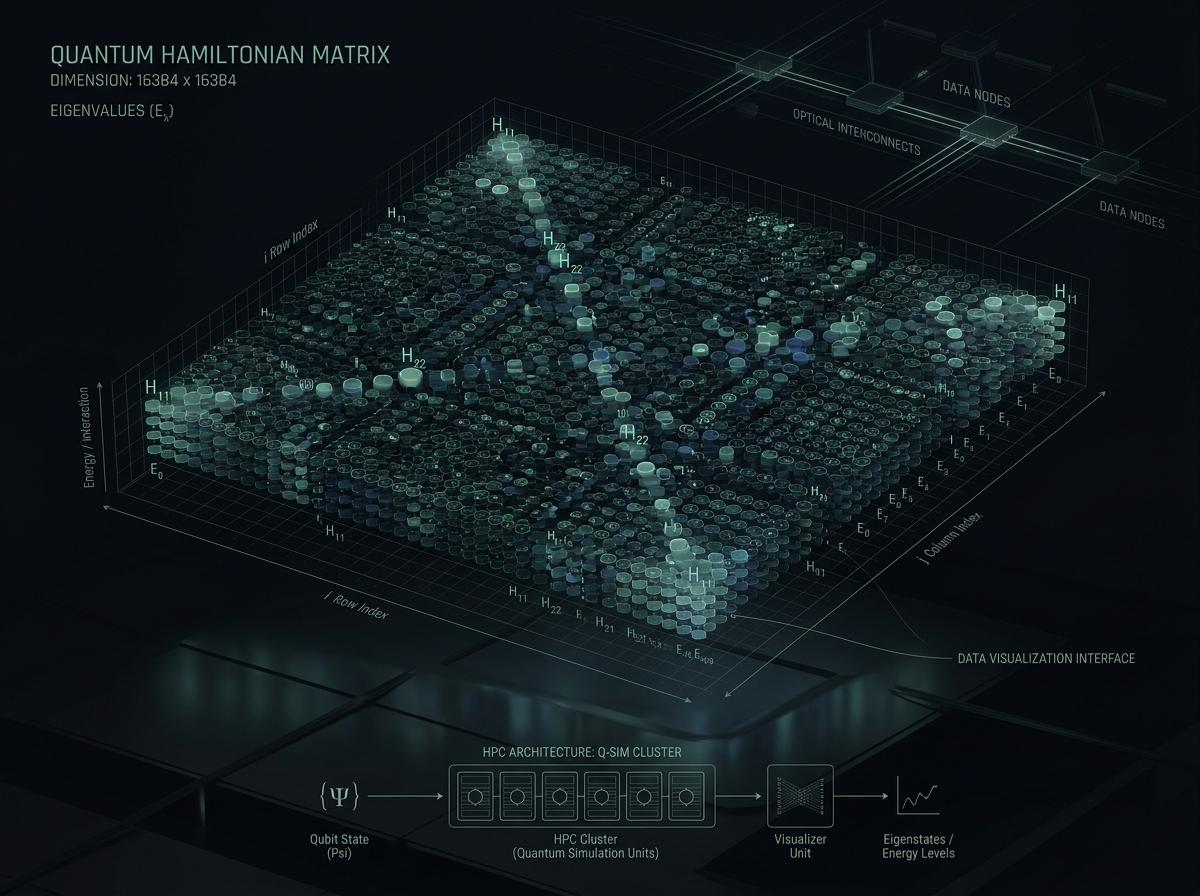
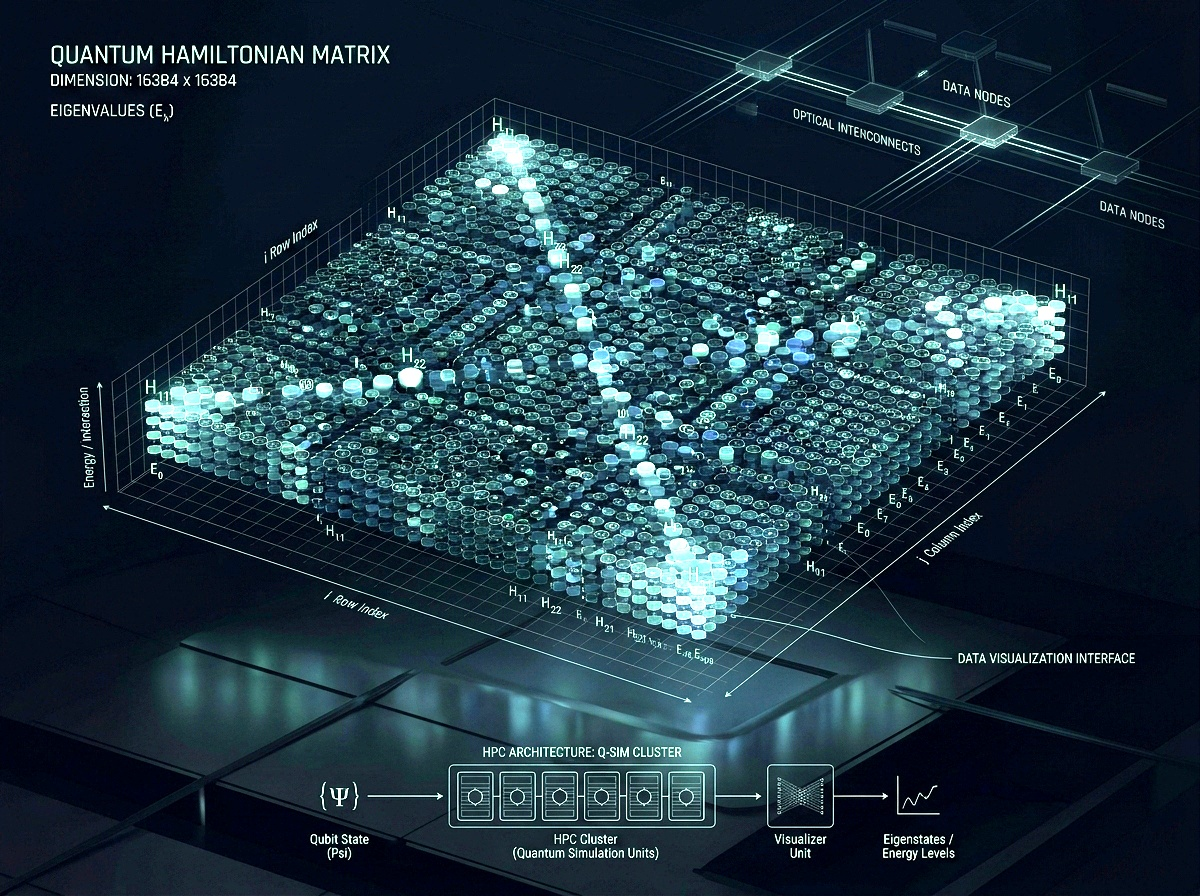
fix(deck): enhance contrast and brightness on matrix and singularity bottleneck images and sync across deck static paths

diff --git a/anfa-deck.html b/anfa-deck.html
@@ -249,7 +249,7 @@
       content: '';
       position: absolute;
       inset: 0;
-      background: linear-gradient(180deg, rgba(3, 8, 4, 0.15) 0%, rgba(3, 8, 4, 0.72) 42%, rgba(3, 8, 4, 0.97) 80%);
+      background: linear-gradient(180deg, rgba(3, 8, 4, 0.02) 0%, rgba(3, 8, 4, 0.22) 45%, rgba(3, 8, 4, 0.88) 82%, rgba(3, 8, 4, 0.98) 100%);
       z-index: 1;
       pointer-events: none;
     }

diff --git a/public/anfa-deck.html b/public/anfa-deck.html
@@ -249,7 +249,7 @@
       content: '';
       position: absolute;
       inset: 0;
-      background: linear-gradient(180deg, rgba(3, 8, 4, 0.15) 0%, rgba(3, 8, 4, 0.72) 42%, rgba(3, 8, 4, 0.97) 80%);
+      background: linear-gradient(180deg, rgba(3, 8, 4, 0.02) 0%, rgba(3, 8, 4, 0.22) 45%, rgba(3, 8, 4, 0.88) 82%, rgba(3, 8, 4, 0.98) 100%);
       z-index: 1;
       pointer-events: none;
     }
